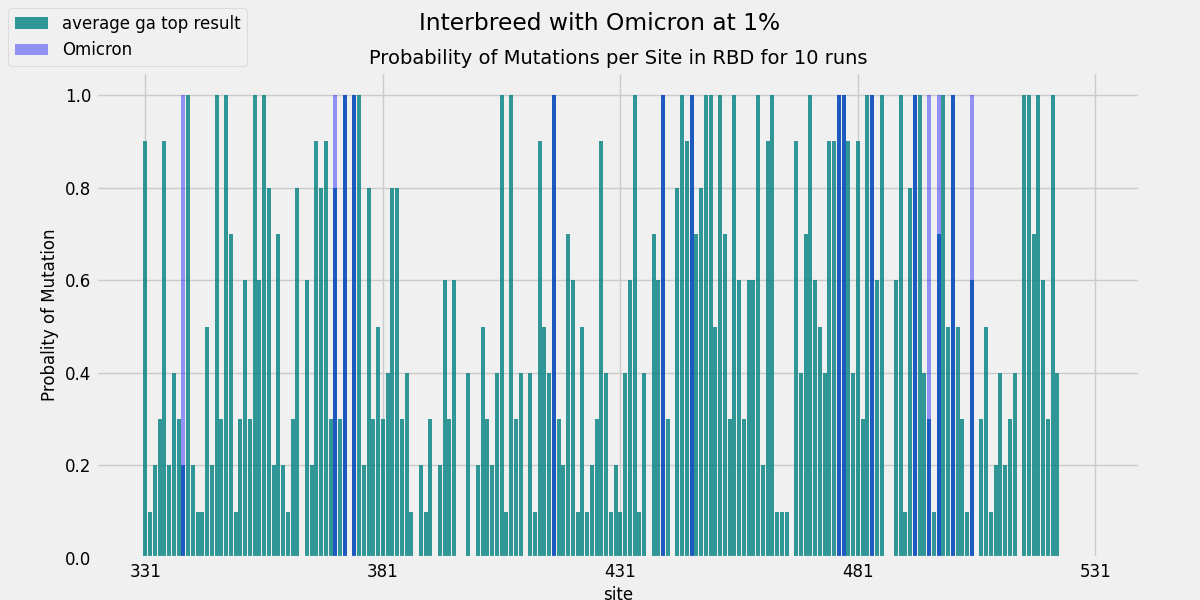
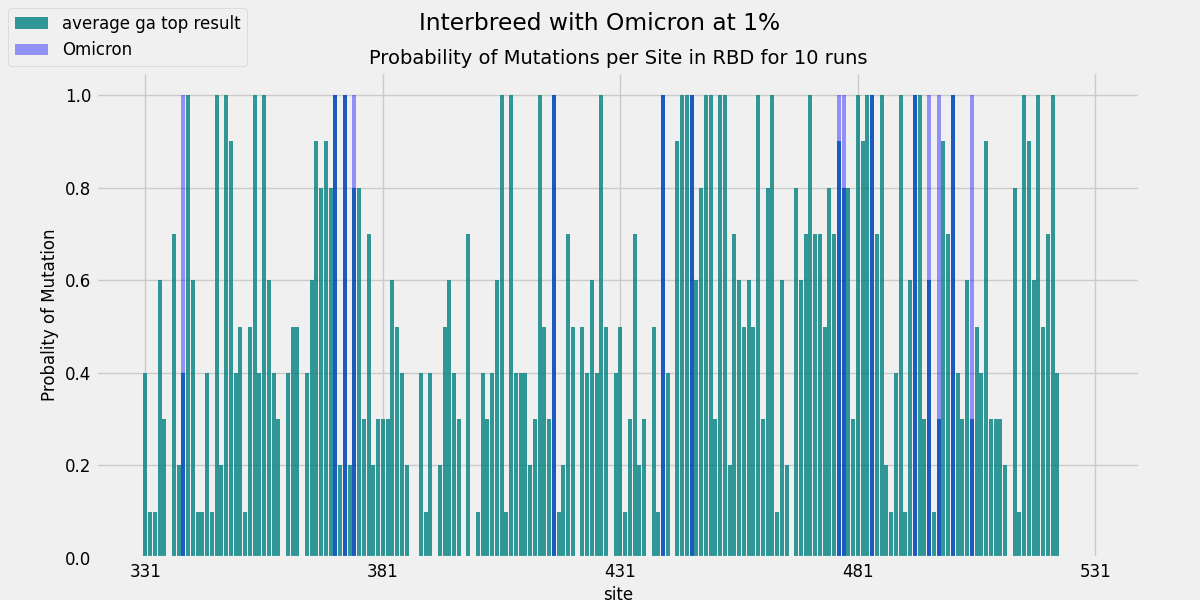
regenerate figures with new data

diff --git a/analysis_jaime.py b/analysis_jaime.py
@@ -7,7 +7,7 @@ def get_avg_low_high(name, prob):
     escapes = []
     fitnesses = []
     for i in range(10):
-        ga = pd.read_pickle(f"results/Jaime_new/prob_{prob}/{name}_{i}.pkl")
+        ga = pd.read_pickle(f"results/Jaime_lawrence/prob_{prob}/{name}_{i}.pkl")
         escapes.append([x[0] for x in ga.fitnesses])
         fitnesses.append([x[1] for x in ga.fitnesses])
 
@@ -63,7 +63,7 @@ def plot_fitness_escape_over_time(name, prob, fit_low, fit_high, fit_avg, esc_lo
 def get_mutations(name, prob):
     sites = [0]*200
     for i in range(10):
-        ga = pd.read_pickle(f"results/Jaime_new/prob_{prob}/{name}_{i}.pkl")
+        ga = pd.read_pickle(f"results/Jaime_lawrence/prob_{prob}/{name}_{i}.pkl")
         for j in ga.top_strains[-1].get_non_neutral():
             sites[j["site"]] = sites[j["site"]] + 1
     return [x / 10 for x in sites]
